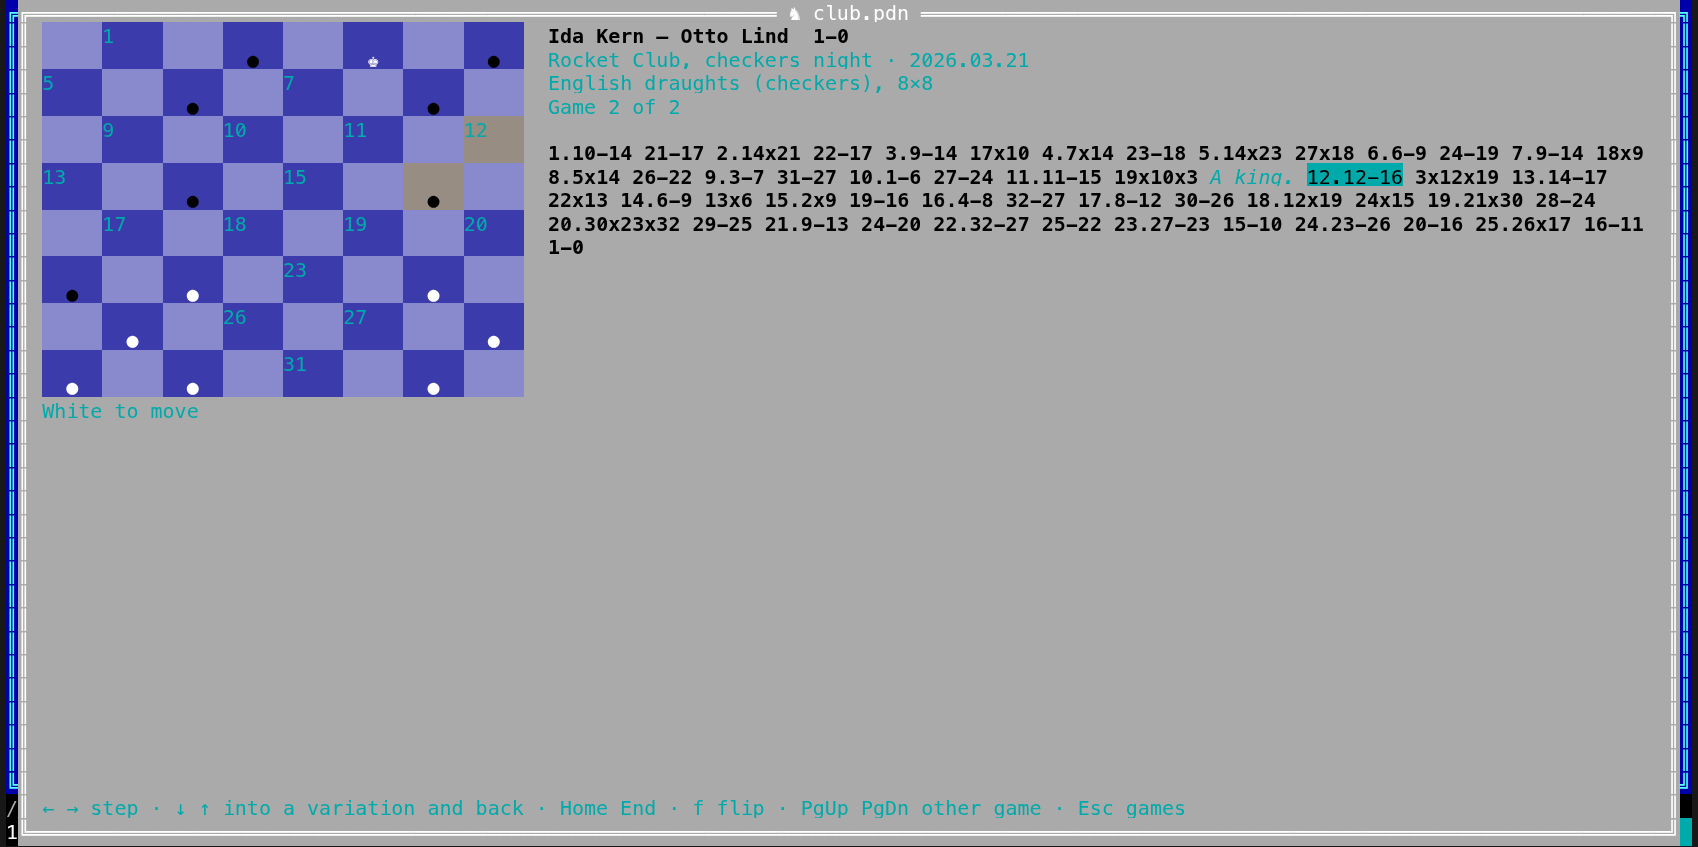
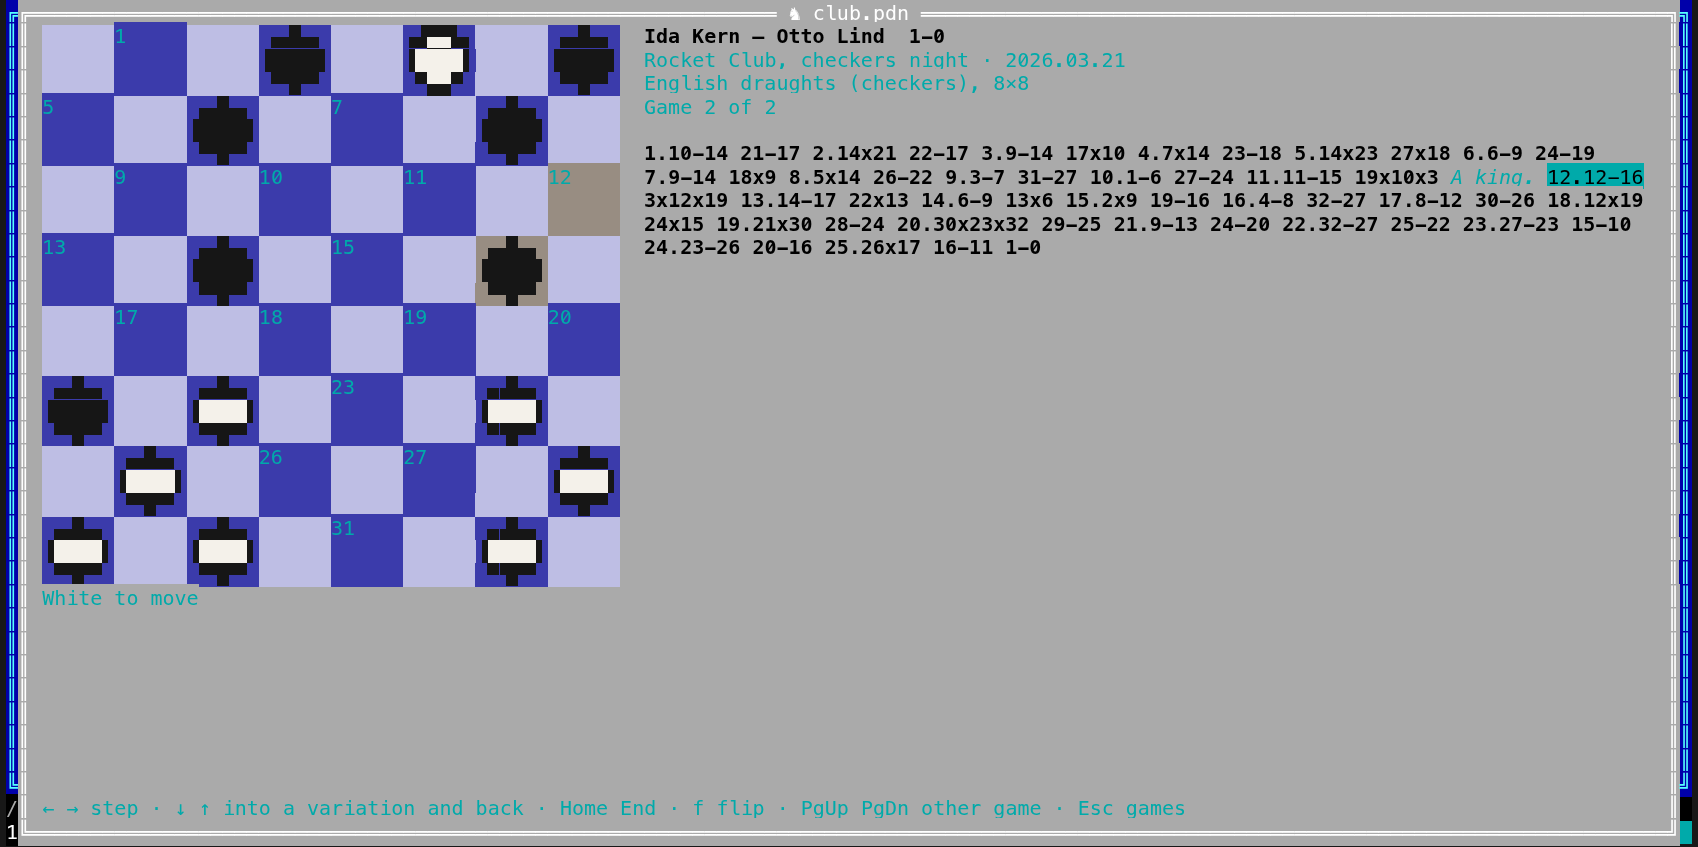
Draughts: the terminal app draws men and kings from block characters too

Changed region(s): [[0.0, 0.0, 0.9988, 0.7367]]

diff --git a/crates/coxswain/src/chess.rs b/crates/coxswain/src/chess.rs
@@ -641,7 +641,7 @@ impl Viewer {
             return self.draw_moves(f, theme, area, board_w, vec![]);
         }
         // The board: as big as fits, a square twice as wide as high, the moves beside it.
-        let (pieces, cell_w, cell_h) = crate::pieces::layout(self.pieces, 8, 8, (area.width * 3 / 5).max(area.width.saturating_sub(40)).saturating_sub(2), area.height.saturating_sub(2));
+        let (pieces, cell_w, cell_h) = crate::pieces::layout(self.pieces, &mosaic::CHESS, 8, 8, (area.width * 3 / 5).max(area.width.saturating_sub(40)).saturating_sub(2), area.height.saturating_sub(2));
         let fen = match o.at {
             Some(n) => g.nodes[n as usize].fen.clone(),
             None => Some(g.start.clone()),
@@ -703,42 +703,36 @@ impl Viewer {
         let cells = coxswain_core::draughts::cells(&fen);
         let h = cells.len().max(1) as u16;
         let w = cells.iter().map(Vec::len).max().unwrap_or(0).max(1) as u16;
-        let cell_h = (area.height.saturating_sub(2) / h).clamp(1, 2);
-        let mut cell_w = cell_h * 2 + 1;
-        while cell_w > 3 && cell_w * w > area.width / 2 {
-            cell_w -= 2;
-        }
+        let (pieces, cell_w, cell_h) = crate::pieces::layout(self.pieces, &mosaic::DRAUGHTS, w, h, (area.width * 3 / 5).max(area.width.saturating_sub(40)), area.height.saturating_sub(1));
         let mut lines = vec![];
         for row in 0..h {
             let y = if self.flip { h - 1 - row } else { row };
-            for sub in 0..cell_h {
-                let mut spans = vec![];
-                for col in 0..w {
-                    let x = if self.flip { w - 1 - col } else { col };
-                    let dark = (x + y) % 2 == 1;
-                    let cell = (x + y * w) as u8;
-                    let mut colour = self.board[dark as usize];
-                    if last.is_some_and(|(a, b)| a == Some(cell) || b == Some(cell)) {
-                        colour = tint(colour, (0xf6, 0xe0, 0x5a));
-                    }
-                    let piece = cells.get(y as usize).and_then(|r| r.get(x as usize)).copied().flatten();
-                    let mid = sub == cell_h / 2;
-                    let (text, fg) = match piece {
-                        Some(p) if mid => {
-                            let pad = " ".repeat(((cell_w - 1) / 2) as usize);
-                            let glyph = if p.eq_ignore_ascii_case(&'k') { "♚" } else { "●" };
-                            (format!("{pad}{glyph}{pad}"), if p.is_ascii_uppercase() { Color::Rgb(255, 255, 255) } else { Color::Rgb(0, 0, 0) })
-                        }
-                        None if dark && sub == 0 => {
-                            let n = coxswain_core::draughts::square_number(w as usize, x as usize, y as usize).unwrap_or(0);
-                            (format!("{n:<width$}", width = cell_w as usize), dim.fg.unwrap_or(Color::Gray))
-                        }
-                        _ => (" ".repeat(cell_w as usize), Color::Reset),
-                    };
-                    spans.push(Span::styled(text, Style::default().bg(colour).fg(fg).add_modifier(if piece.is_some() { Modifier::BOLD } else { Modifier::empty() })));
+            let mut rows: Vec<Vec<Span>> = vec![vec![]; cell_h as usize];
+            for col in 0..w {
+                let x = if self.flip { w - 1 - col } else { col };
+                let dark = (x + y) % 2 == 1;
+                let cell = (x + y * w) as u8;
+                let mut colour = if pieces == Pieces::Figurines { self.board[dark as usize] } else { self.squares[dark as usize] };
+                if last.is_some_and(|(a, b)| a == Some(cell) || b == Some(cell)) {
+                    colour = tint(colour, (0xf6, 0xe0, 0x5a));
                 }
-                lines.push(Line::from(spans));
+                let piece = cells.get(y as usize).and_then(|r| r.get(x as usize)).copied().flatten().map(|p| crate::pieces::Piece {
+                    name: p,
+                    figurine: if p.eq_ignore_ascii_case(&'k') { "♚" } else { "●" },
+                    colour: if p.is_ascii_uppercase() { Color::Rgb(255, 255, 255) } else { Color::Rgb(0, 0, 0) },
+                });
+                let empty = piece.is_none();
+                let mut square = crate::pieces::square(pieces, &mosaic::DRAUGHTS, piece, cell_w, cell_h, colour);
+                // An empty dark square: its number at the top left.
+                if empty && dark {
+                    let n = coxswain_core::draughts::square_number(w as usize, x as usize, y as usize).unwrap_or(0);
+                    square[0] = vec![Span::styled(format!("{n:<width$}", width = cell_w as usize), Style::default().bg(colour).fg(dim.fg.unwrap_or(Color::Gray)))];
+                }
+                for (r, spans) in square.into_iter().enumerate() {
+                    rows[r].extend(spans);
+                }
             }
+            lines.extend(rows.into_iter().map(Line::from));
         }
         let white = fen.split_whitespace().nth(1) != Some("b");
         lines.push(Line::styled(t!(if white { "chess.white_to_move" } else { "chess.black_to_move" }), dim));
@@ -1030,10 +1024,17 @@ mod tests {
         for _ in 0..3 {
             v.key(key(KeyCode::Right), None);
         }
+        v.pieces = Pieces::Figurines;
         let s = screen(&mut v);
         assert!(s.contains("28x19") && s.contains("takes") && s.contains('●') && s.contains("10×10"), "{s}");
         // Square numbers on the empty dark squares.
         assert!(s.contains("26"));
+        // Men drawn from sextants on a board large enough, the numbers still there.
+        v.pieces = Pieces::Mosaic(coxswain_core::mosaic::Glyphs::Sextants);
+        let mut term = ratatui::Terminal::new(ratatui::backend::TestBackend::new(140, 40)).unwrap();
+        term.draw(|f| v.draw(f, &Theme::default())).unwrap();
+        let s: String = term.backend().buffer().content.iter().map(|c| c.symbol()).collect();
+        assert!(s.chars().any(|c| ('\u{1FB00}'..='\u{1FB3B}').contains(&c)) && !s.contains('●') && s.contains("26"), "{s}");
         std::fs::remove_dir_all(&d).unwrap();
     }
 }

diff --git a/crates/coxswain-core/src/mosaic.rs b/crates/coxswain-core/src/mosaic.rs
@@ -179,16 +179,48 @@ pub struct Cell {
 /// The masks' side, in source pixels (`SIZE` in `tools/mosaic.py`).
 const SIZE: usize = 64;
 
-/// A set of pieces: a game's pieces as masks, `names` the letter of each in the file's order.
+/// A set of pieces: a game's pieces as masks, `names` the letter of each in the file's order,
+/// `svgs` the files they are made from (`SETS` in `tools/mosaic.py`), `plain` when its pieces
+/// are simple shapes that read on a square a row smaller.
 pub struct Set {
     data: &'static [u8],
     names: &'static str,
+    pub svgs: &'static [&'static str],
+    pub plain: bool,
 }
 
 /// The chess pieces (Uray M. János's set, as the desktop app's), white then black.
 pub static CHESS: Set = Set {
     data: include_bytes!("mosaic/chess.bin"),
     names: "KQRBNPkqrbnp",
+    svgs: &[
+        "chess-pieces/wK.svg",
+        "chess-pieces/wQ.svg",
+        "chess-pieces/wR.svg",
+        "chess-pieces/wB.svg",
+        "chess-pieces/wN.svg",
+        "chess-pieces/wP.svg",
+        "chess-pieces/bK.svg",
+        "chess-pieces/bQ.svg",
+        "chess-pieces/bR.svg",
+        "chess-pieces/bB.svg",
+        "chess-pieces/bN.svg",
+        "chess-pieces/bP.svg",
+    ],
+    plain: false,
+};
+
+/// The draughts men and kings, white then black, as `coxswain_core::draughts::cells` names them.
+pub static DRAUGHTS: Set = Set {
+    data: include_bytes!("mosaic/draughts.bin"),
+    names: "MKmk",
+    svgs: &[
+        "game-pieces/draughts-wm.svg",
+        "game-pieces/draughts-wk.svg",
+        "game-pieces/draughts-bm.svg",
+        "game-pieces/draughts-bk.svg",
+    ],
+    plain: true,
 };
 
 impl Set {
@@ -324,28 +356,26 @@ mod tests {
 
     #[test]
     fn the_masks_are_made_from_the_svg_pieces_as_they_are() {
-        let dir = std::path::Path::new(env!("CARGO_MANIFEST_DIR"))
-            .join("../../gui/public/vendor/chess-pieces");
+        let dir = std::path::Path::new(env!("CARGO_MANIFEST_DIR")).join("../../gui/public/vendor");
         if !dir.is_dir() {
             return; // the published crate has no desktop app beside it
         }
-        let mut all = vec![];
-        for c in ["w", "b"] {
-            for p in "KQRBNP".chars() {
-                // Line ends as git checks them out on Windows too.
-                all.extend(
-                    std::fs::read(dir.join(format!("{c}{p}.svg")))
-                        .unwrap()
-                        .into_iter()
-                        .filter(|&b| b != b'\r'),
-                );
-            }
+        for set in [&CHESS, &DRAUGHTS] {
+            assert_eq!(set.svgs.len(), set.names.chars().count());
+            // Line ends as git checks them out on Windows too.
+            let all: Vec<u8> = set
+                .svgs
+                .iter()
+                .flat_map(|f| std::fs::read(dir.join(f)).unwrap())
+                .filter(|&b| b != b'\r')
+                .collect();
+            assert_eq!(
+                set.made_from(),
+                fnv(&all),
+                "{} changed: run python3 tools/mosaic.py",
+                set.svgs[0]
+            );
         }
-        assert_eq!(
-            CHESS.made_from(),
-            fnv(&all),
-            "the chess pieces changed: run python3 tools/mosaic.py"
-        );
     }
 
     #[test]

diff --git a/tools/mosaic.py b/tools/mosaic.py
@@ -7,7 +7,7 @@ Needs `resvg` (or `rsvg-convert`) and Pillow. Each set is one file under
 crates/coxswain-core/src/mosaic/: an 8-byte FNV-1a hash of its SVG files, without CRs (so a test can tell
 that the masks are current), then each piece as SIZE x SIZE bytes, row by row: the high four
 bits how much of the dot the piece covers, the low four how much of it is dark.
-A new set is one line in SETS.
+A new set is one line in SETS and a `Set` in mosaic.rs.
 """
 import shutil, subprocess, sys, tempfile
 from pathlib import Path
@@ -18,6 +18,7 @@ SIZE = 64
 SETS = {
     # name: (folder of SVG files, piece files in the order the code knows them)
     "chess": ("gui/public/vendor/chess-pieces", [f"{c}{p}.svg" for c in "wb" for p in "KQRBNP"]),
+    "draughts": ("gui/public/vendor/game-pieces", [f"draughts-{c}{p}.svg" for c in "wb" for p in "mk"]),
 }
 
 

diff --git a/crates/coxswain/src/pieces.rs b/crates/coxswain/src/pieces.rs
@@ -22,13 +22,14 @@ pub fn pieces(cfg: &coxswain_core::config::Config) -> Pieces {
 /// enough; otherwise figurines on today's small squares (3 or 5 wide, 1 or 2 high).
 pub fn layout(
     pieces: Pieces,
+    set: &Set,
     files: u16,
     ranks: u16,
     width: u16,
     height: u16,
 ) -> (Pieces, u16, u16) {
     let least = match pieces {
-        Pieces::Mosaic(g) => g.min_rows(),
+        Pieces::Mosaic(g) => g.min_rows() - set.plain as u16,
         Pieces::Pictures => 2,
         Pieces::Figurines => u16::MAX,
     };

diff --git a/docs/previews/draughts.md b/docs/previews/draughts.md
@@ -11,7 +11,7 @@ play or check a game.
 
 ![English draughts in the desktop app's window (Alt+K): an 8×8 board in the Cyber theme's colours, white and black men as discs, a white king as two discs stacked, the empty dark squares numbered, the last move's squares tinted, beside it the players, event, English draughts (checkers), 8×8 and the moves with a comment, the move 3x12x19 highlighted](../screenshots/gui-draughts.png)
 
-![The terminal app's draughts view in Classic blue: an English draughts game on an 8×8 board of coloured squares, men drawn ● and a king ♚ in white and black, square numbers on the empty dark squares, the move 12-16 highlighted among the moves beside it, English draughts (checkers), 8×8 above them, and the key line below](../screenshots/tui-draughts.png)
+![The terminal app's draughts view in Classic blue: an English draughts game on an 8×8 board of coloured squares, men drawn from block characters as discs and a white king as two discs stacked, square numbers on the empty dark squares, the move 12-16 highlighted among the moves beside it, English draughts (checkers), 8×8 above them, and the key line below](../screenshots/tui-draughts.png)
 
 - [Using it](#using-it)
 - [The table of games](#the-table-of-games)
@@ -64,8 +64,9 @@ the keys at once, in the preview pane click it first. Terminal: **Enter**.
 ## A game on the board
 
 The board shows the position after the move you are on, White at the bottom. Men are discs,
-white and black; a king is two discs stacked, as on a real board, in the desktop app, and ♚ in
-the terminal app, where a man is ●. The empty dark squares carry their numbers, as PDN counts them: 1 at
+white and black; a king is two discs stacked, as on a real board. The terminal app draws them
+from block characters when the window has room ([Game pieces in the terminal](game-pieces.md)),
+and on a small board as ● (a man) and ♚ (a king). The empty dark squares carry their numbers, as PDN counts them: 1 at
 the top left, row by row. The squares the last move went from and to are tinted yellow.
 
 Beside the board: the players and the result, the event, place and date, which draughts it is

diff --git a/docs/previews/game-pieces.md b/docs/previews/game-pieces.md
@@ -2,8 +2,9 @@
 
 # Game pieces in the terminal
 
-The terminal app draws the pieces of a [chess game](chess.md) from **block characters**: each
-piece is the desktop app's own picture (Uray M. János's set), drawn in dots, two dots across
+The terminal app draws the pieces of a [chess game](chess.md) and the men and kings of a
+[draughts game](draughts.md) from **block characters**: each piece is the desktop app's own
+picture (for chess Uray M. János's set), drawn in dots, two dots across
 a character cell and up to four down, so a knight looks like a knight and not like a letter.
 The board grows to the largest squares the window has room for. On a small window it falls
 back to the chess characters of your font (♚ ♛ ♜ ♝ ♞ ♟) on small squares, as before.
@@ -30,6 +31,10 @@ colour of the next fewest. The finer the block characters, the fewer such cells.
 A square is twice as wide as high in cells, so that it is square on the screen. The view
 needs about 30 rows and 85 columns for drawn pieces (38 rows with half blocks); on a smaller
 window, or with *Figurines* chosen, it shows the chess characters of your font.
+
+Draughts pieces are simple discs, so they are drawn on squares a row smaller: two rows (three
+with half blocks). A 10 × 10 board then needs about 26 rows; an 8 × 8 one about 22. The empty
+dark squares keep their numbers at their top left.
 
 The desktop app draws the pictures themselves, as it always has.
 

diff --git a/changelog.d/mosaic-draughts.md b/changelog.d/mosaic-draughts.md
@@ -1,0 +1,1 @@
+| **Draughts pieces drawn in the terminal.** The terminal app draws draughts men and kings from block characters after the desktop app's pictures, as it does chess pieces; ● and ♚ on a small board. | [Game pieces in the terminal](previews/game-pieces.md) · [Draughts games](previews/draughts.md#a-game-on-the-board) |
